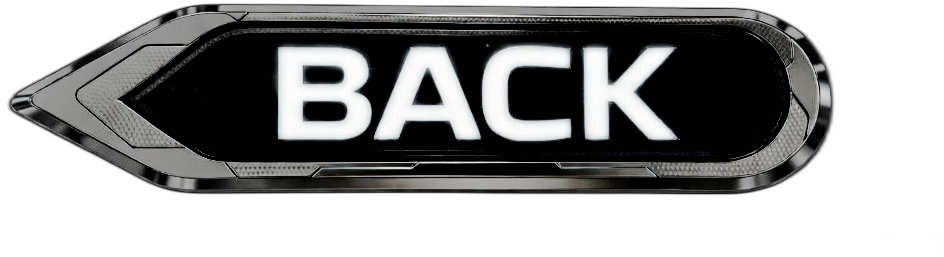
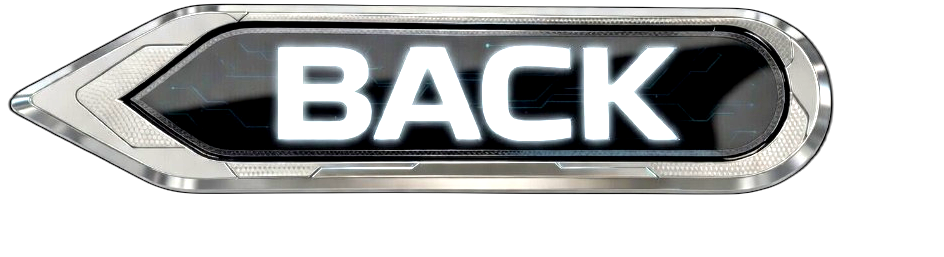
fix: restore bright silver frame on Hub/Back buttons at 32px render size, remove CSS filter

diff --git a/src/components/ui/UniversalHeader.js b/src/components/ui/UniversalHeader.js
@@ -415,7 +415,7 @@ export default function UniversalHeader({
                 }
 
                 .header-nav-btn img {
-                    filter: contrast(1.2);
+                    /* no filter - images are pre-processed */
                 }
                 
                 .brand-text {
